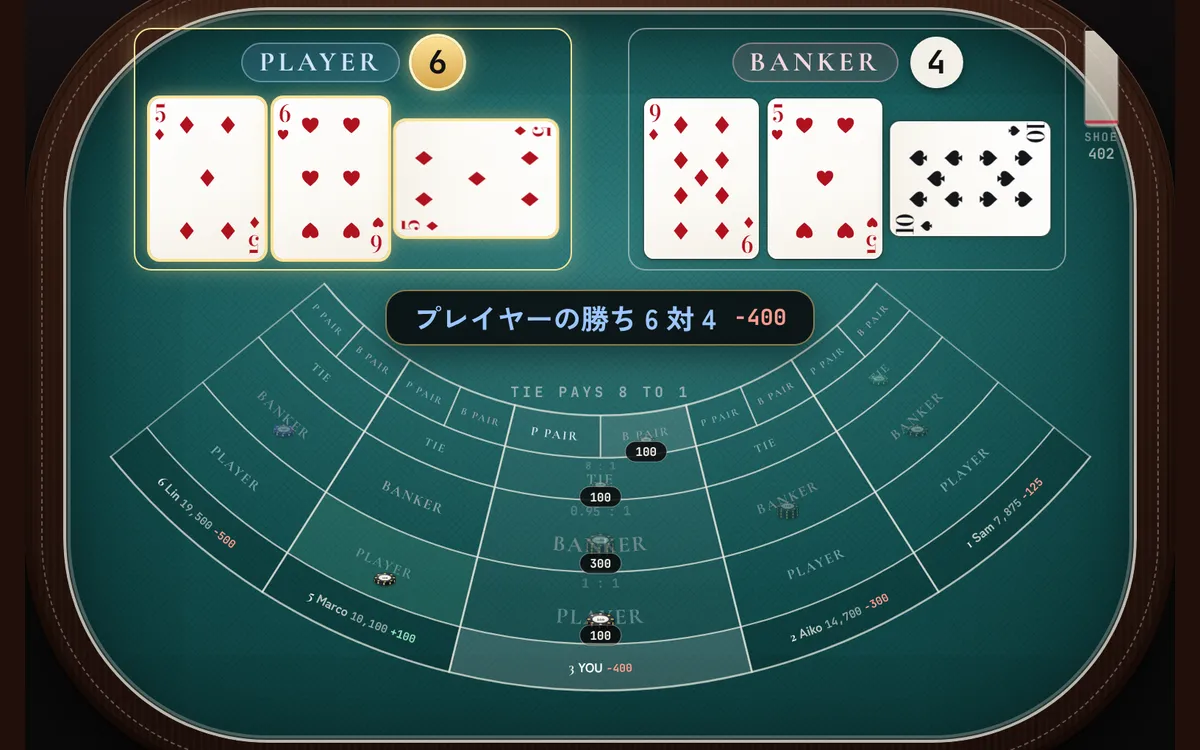
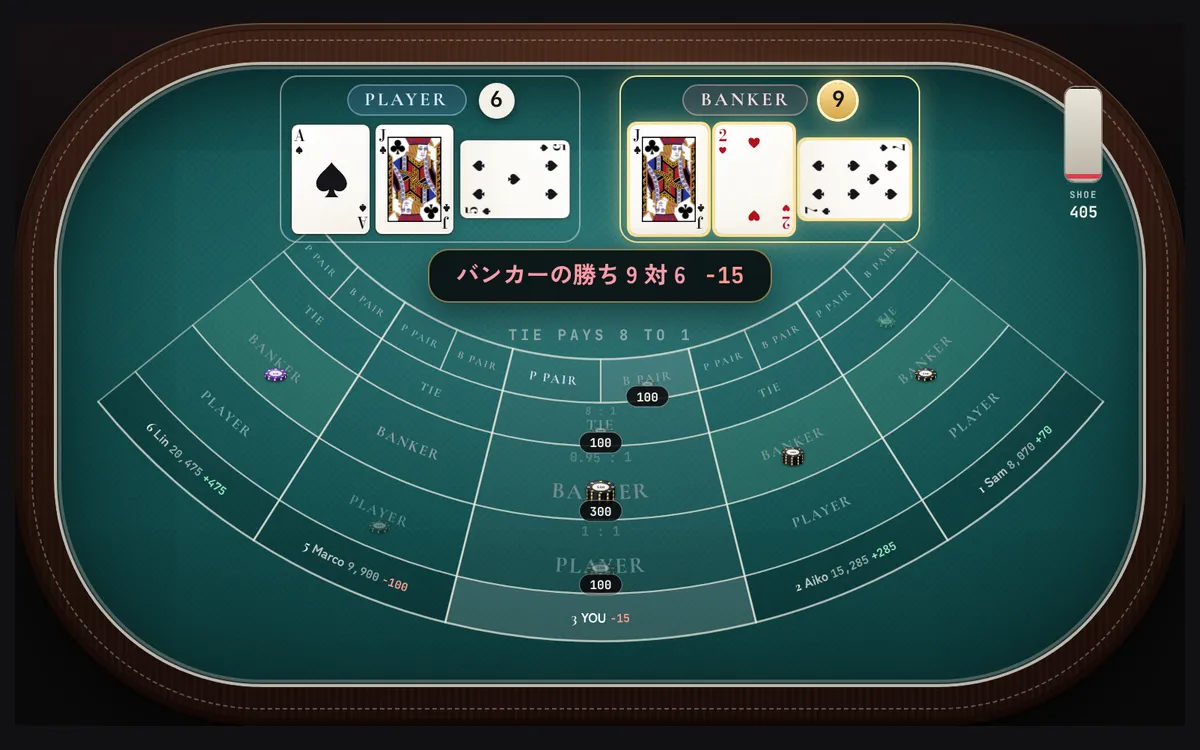
バカラ（スマホ）：親指向けのバカラテーブル（全幅の共有バンド・縁に5席・全員のチップを各席位置に）、トップのサムネイルを盤全体に
Claude-Session: https://claude.ai/code/session_01EiWRAXYbB7FpiyimYy4m7z

diff --git a/baccarat/app.js b/baccarat/app.js
@@ -369,6 +369,63 @@ function visTotal(side) {
   if (S.sq === side && cs.some(i => !S.peel[side + i])) return null;
   return B.total(cs.map(i => c[side][i]));
 }
+/* phones: still a baccarat table, but drawn for the thumb — the shared bands PLAYER / BANKER / TIE run across the whole width
+   (one big target each), the five seats sit on the rim (6 5 YOU 2 1), and every player's chips lie on the bands at their seat.
+   The pairs (and the EZ side bets) are round spots in the corners. */
+const MG = { cx: 500, cy: -250, span: 40, R: { plate: [700, 786], P: [565, 700], B: [430, 565], T: [345, 430], S: [265, 345] } };
+function mobGeo() {
+  const ez = VB().includes('D7'), rIn = ez ? MG.R.S[0] : MG.R.T[0];
+  const top = Math.floor(MG.cy + rIn * Math.cos(MG.span * Math.PI / 180) - 14), bot = Math.ceil(MG.cy + MG.R.plate[1] + 8);
+  return { ez, rIn, top: Math.min(top, -10), h: bot - Math.min(top, -10) };
+}
+function layMobHtml() {
+  const vb = VB(), done = T.phase === 'done', G0 = mobGeo(), { cx, cy, span, R } = MG;
+  const P2 = (r, a) => [cx + r * Math.sin(a * Math.PI / 180), cy + r * Math.cos(a * Math.PI / 180)].map(v => +v.toFixed(1));
+  const cell = (r1, r2, a0, a1) => { const [x1, y1] = P2(r2, a0), [x2, y2] = P2(r2, a1), [x3, y3] = P2(r1, a1), [x4, y4] = P2(r1, a0); return `M${x1} ${y1}A${r2} ${r2} 0 0 0 ${x2} ${y2}L${x3} ${y3}A${r1} ${r1} 0 0 1 ${x4} ${y4}Z`; };
+  const arc = (r, a0, a1) => { const [x1, y1] = P2(r, a0), [x2, y2] = P2(r, a1); return `M${x1} ${y1}A${r} ${r} 0 0 0 ${x2} ${y2}`; };
+  // seats on the rim (angles grow to the right): 6 5 | 3 YOU | 2 1
+  const W8 = [1, 1, 1.7, 1, 1], tot = W8.reduce((x, y) => x + y, 0); let acc = -span;
+  const seats = [6, 5, 3, 2, 1].map((n, i) => { const a0 = acc; acc += W8[i] / tot * 2 * span; return { n, a0, a1: acc, am: (a0 + acc) / 2 }; });
+  const meBets = T.phase === 'bet' ? T.bets : T.last || {}, meRes = done && T.result ? T.result.per : null;
+  const who = n => n === ME ? null : BOTS.find(b => b.seat === n);
+  const betsOf = n => n === ME ? meBets : ((T.bots && T.bots[who(n).id] && T.bots[who(n).id].bets) || {});
+  let g = '';
+  // the bands
+  const bands = [['P', R.P], ['B', R.B], ['T', R.T]].concat(G0.ez ? [['P8', [R.S[0], R.S[1]], 0], ['D7', [R.S[0], R.S[1]], 1]] : []);
+  bands.forEach(([k, [r1, r2], half]) => {
+    const a0 = half === undefined ? -span : half ? 0 : -span, a1 = half === undefined ? span : half ? span : 0, rm = (r1 + r2) / 2, h = r2 - r1;
+    const rr = meRes ? meRes[k] : undefined, st = rr === undefined ? '' : rr > 0 ? ' won' : rr < 0 ? ' lost' : ' push';
+    const id = 'mz' + k, am = (a0 + a1) / 2, lab = LAB[k], fs = k === 'T' || half !== undefined ? 44 : 70;
+    g += `<g class="lz mz lz-${k}${st}${meBets[k] ? ' has' : ''}" data-spot="${k}" data-k="${id}"><path class="lz-a" d="${cell(r1, r2, a0, a1)}"/>` +
+      `<path id="${id}" d="${arc(rm + h * .2, a0, a1)}" fill="none"/><text class="lz-n" style="font-size:${fs}px"><textPath href="#${id}" startOffset="50%">${lab}  <tspan class="mz-p">${esc(payTxt(k).replace(/ \(.*$/, '').replace(/（.*$/, ''))}</tspan></textPath></text>`;
+    // everybody's chips on this band, at their seat
+    seats.forEach(sx => { const amt = betsOf(sx.n)[k]; if (!amt) return; const a = half === undefined ? sx.am : am + (sx.am / span) * (a1 - a0) / 2 * .8, [x, y] = P2(rm, a), me = sx.n === ME;
+      const [xu, yu] = P2(r1 + h * .18, a); g += `<g class="lz-ch">${chipsAt(amt, xu, yu + 6, me ? 46 : 34)}</g>` + (me ? badge(xu + 62, yu - 8, fmt(amt), 'amt mz-b') : ''); });
+    if (rr !== undefined && meBets[k]) { const [x, y] = P2(rm, half === undefined ? span * .55 : am + (a1 - a0) * .3); g += badge(x, y, rr > 0 ? '+' + fmt(rr) : rr === 0 ? t('res.push') : '−' + fmt(-rr), 'res mz-b'); }
+    g += `</g>`;
+  });
+  // the pairs: round spots in the upper corners
+  [['PP', 92, 0], ['BP', 908, 1]].filter(([k]) => vb.includes(k)).forEach(([k, x]) => {
+    const y = G0.top + 92, rr = meRes ? meRes[k] : undefined, st = rr === undefined ? '' : rr > 0 ? ' won' : rr < 0 ? ' lost' : ' push';
+    const ws = seats.filter(sx => betsOf(sx.n)[k]);
+    g += `<g class="lz mz lz-s lz-${k}${st}${meBets[k] ? ' has' : ''}" data-spot="${k}" data-k="mz${k}"><circle class="lz-a" cx="${x}" cy="${y}" r="78"/><circle class="lz-ring" cx="${x}" cy="${y}" r="68"/>` +
+      `<text class="lz-sn mz-sn" x="${x}" y="${y - 4}">${LAB[k]}</text><text class="lz-sp mz-sp" x="${x}" y="${y + 30}">11 : 1</text>` +
+      ws.map((sx, i) => sx.n === ME ? `<g class="lz-ch">${chipsAt(betsOf(ME)[k], x, y + 72, 44)}</g>` + badge(x, y + 84, fmt(betsOf(ME)[k]), 'amt mz-b') : `<g class="mz-av"><circle cx="${x + (k === 'PP' ? 1 : -1) * (40 + i * 30)}" cy="${y - 64}" r="17"/><text x="${x + (k === 'PP' ? 1 : -1) * (40 + i * 30)}" y="${y - 57}">${who(sx.n).name[0]}</text></g>`).join('') +
+      (rr !== undefined && meBets[k] ? badge(x, y - 92, rr > 0 ? '+' + fmt(rr) : '−' + fmt(-rr), 'res mz-b') : '') + `</g>`;
+  });
+  // the seats (name plates on the rim)
+  let lines = '';
+  seats.forEach((sx, i) => {
+    const me = sx.n === ME, b = who(sx.n), tb = b && T.bots ? T.bots[b.id] : null, [p1, p2] = R.plate, pid = 'mp' + sx.n;
+    const net = me ? (done && T.result && betSum(T.last) ? T.result.net : null) : done && tb && tb.res ? tb.res.net : null;
+    g += `<g class="seat-g${me ? ' me' : ''}"><path class="pl-a" d="${cell(p1, p2, sx.a0, sx.a1)}"/><path id="${pid}" d="${arc((p1 + p2) / 2 + 12, sx.a0, sx.a1)}" fill="none"/>` +
+      `<text class="pl-t mz-pl"><textPath href="#${pid}" startOffset="50%">${me ? `<tspan class="pl-n">3</tspan> YOU` : `<tspan class="pl-n">${sx.n}</tspan> ${esc(b.name)}`}${net ? ` <tspan class="${net > 0 ? 'pl-w' : 'pl-l'}">${net > 0 ? '+' : '−'}${fmt(Math.abs(net))}</tspan>` : me ? '' : ` <tspan class="pl-b">${fmt(botState(b).bank)}</tspan>`}</textPath></text></g>`;
+    if (i) { const [x1, y1] = P2(G0.rIn, sx.a0), [x2, y2] = P2(p2, sx.a0); lines += `<line class="lz-div mz-div" x1="${x1}" y1="${y1}" x2="${x2}" y2="${y2}"/>`; }
+  });
+  const rim = `<path class="lz-rim" d="${arc(R.plate[1], -span, span)}"/><path class="lz-rim" d="${arc(G0.rIn, -span, span)}"/>`;
+  return `<div class="bc-lay" data-k="laym"><svg class="lz-svg mzs" viewBox="0 ${G0.top} 1000 ${G0.h}" preserveAspectRatio="xMidYMax meet">${g}${lines}${rim}</svg></div>`;
+}
+
 /* the layout: a baccarat-table print — five seats (1 2 3 5 6, no 4) along the curve, divided by lines.
    Each seat, from the rim inwards: name plate, PLAYER, BANKER, TIE, then the side bets. You sit in the middle (seat 3). */
 let LW = 1000, SPAN = 40, MEW = 1.6;
@@ -391,7 +448,7 @@ function chipsAt(amt, x, yb, w) {   // chip stacks (side view) standing on y = y
     return sv.replace('<svg class="chsv"', `<svg class="chsv" x="${(x0 + i * gap - w / 2).toFixed(1)}" y="${(yb - h).toFixed(1)}" width="${w}" height="${h.toFixed(1)}"`); }).join('');
 }
 const resTxt = res => res > 0 ? '+' + fmt(res) : res === 0 ? t('res.push') : '−' + fmt(-res);
-function badge(x, y, txt, cls) { const w = 16 + String(txt).length * 11; return `<g class="lz-badge ${cls}"><rect x="${(x - w / 2).toFixed(1)}" y="${(y - 13).toFixed(1)}" width="${w}" height="24" rx="12"/><text x="${x}" y="${(y + 4.5).toFixed(1)}">${esc(txt)}</text></g>`; }
+function badge(x, y, txt, cls) { const big = /mz-b/.test(cls), w = (big ? 24 : 16) + String(txt).length * (big ? 19 : 11); return `<g class="lz-badge ${cls}"><rect x="${(x - w / 2).toFixed(1)}" y="${(y - (big ? 21 : 13)).toFixed(1)}" width="${w}" height="${big ? 40 : 24}" rx="${big ? 20 : 12}"/><text x="${x}" y="${(y + (big ? 9 : 4.5)).toFixed(1)}">${esc(txt)}</text></g>`; }
 function layHtml() {
   const vb = VB(), done = T.phase === 'done', narrow = !!G.deep;
   LW = narrow ? 1000 : 1180; SPAN = narrow ? 66 : 51; MEW = narrow ? 2 : 1.5; RING = narrow ? RING_N : RING_W; LCY = narrow ? -10 : -360; LH = narrow ? 540 : 420;
@@ -440,13 +497,14 @@ function render() {
   // the height the table could have: on phones / tablets the chips and the Deal button must stay on the screen without scrolling
   const Hn = pcCol ? H : Math.min(innerWidth * 1.35, 640, Math.max(260, (sc ? sc.clientHeight : innerHeight) - ($('#actbar').offsetHeight > 100 ? $('#actbar').offsetHeight : 140) - 22)) - 2 * rail;
   G.deep = narrow || (pcCol && H > W * .7);
-  const lzh = (W - 24) * (G.deep ? 540 / 1000 : 420 / 1180), lz = Math.min(lzh, Hn * .6);
+  G.mob = narrow;   // phones: a touch layout (the other players in a strip, big betting boxes) instead of the printed arcs
+  const lzh = G.mob ? (W - 8) * mobGeo().h / 1000 : (W - 24) * (G.deep ? 540 / 1000 : 420 / 1180), lz = G.mob ? lzh : Math.min(lzh, Hn * .6);
   // the two hands side by side, or (tall tables) one above the other with bigger cards
-  const cwS = Math.min(W / (narrow ? 8.1 : 8.6), (Hn - lz) / 3.2), cwT = Math.min(W / (narrow ? 6.6 : 5.7), (Hn - lz) / 4.8);
+  const cwS = Math.min(W / (narrow ? 8.1 : 8.6), (Hn - lz) / (G.mob ? 3.4 : 3.2)), cwT = Math.min(W / (narrow ? 6.6 : 5.7), (Hn - lz) / 4.8);
   const stack = cwT > cwS * 1.12, cw = Math.max(34, Math.min(stack ? cwT : cwS, 124));
   bw.style.setProperty('--cw', cw + 'px'); bw.style.setProperty('--chh', cw * 1.4 + 'px');
-  box.classList.toggle('ctr', pcCol); box.classList.toggle('stk', stack); box.style.setProperty('--lzh', lz + 'px');
-  if (!pcCol) { const need = Math.ceil(cw * ((stack ? 3.4 + .4 : 2.12) + .38 + .62) + lz + 2 * rail + 8);
+  box.classList.toggle('ctr', pcCol); box.classList.toggle('mob', !!G.mob); box.classList.toggle('stk', stack); box.style.setProperty('--lzh', lz + 'px');
+  if (!pcCol) { const need = Math.ceil(cw * ((stack ? 3.4 + .4 : 2.12) + .38 + .62) + lz + 2 * rail + 8 + (G.mob ? 16 : 0));
     const mh = parseFloat(bw.style.maxHeight) || 0; if (Math.abs(mh - need) > 2) bw.style.maxHeight = need + 'px'; }
   const c = T.coup, done = T.phase === 'done', win = done ? c.win : null;
   const pt = visTotal('p'), bt = visTotal('b');
@@ -458,7 +516,7 @@ function render() {
     const head = win === 'T' ? t('win.T', { n: c.pt }) : t('win.' + win, { a: win === 'P' ? c.pt : c.bt, b: win === 'P' ? c.bt : c.pt });
     banner = `<div class="bc-banner w${win}" data-k="banner${T.hand}"><b>${esc(head)}</b>${c.natural ? `<small>${esc(t('natural'))}</small>` : ''}${hadBet ? `<span class="${r.net > 0 ? 'pos' : r.net < 0 ? 'neg' : ''}">${esc(r.net > 0 ? t('res.win', { n: fmt(r.net) }) : r.net < 0 ? t('res.lose', { n: fmt(-r.net) }) : t('res.even'))}</span>` : ''}</div>`;
   }
-  const lay = layHtml();
+  const lay = G.mob ? layMobHtml() : layHtml();
   const shoeLeft = T.shoe.cards.length - T.shoe.pos, shoePct = shoeLeft / T.shoe.cards.length;
   const h = `<div class="bc-hands" data-k="hands">` +
     `<div class="bc-hand bh-p${win === 'P' ? ' win' : ''}" data-k="hp"><div class="bc-hh"><span>PLAYER</span>${tag('p', pt)}${pair('p')}</div>${handHtml('p')}</div>` +

diff --git a/baccarat/app.css b/baccarat/app.css
@@ -2035,3 +2035,61 @@ body.pk.bc{background:radial-gradient(1100px 700px at 25% -10%,#26191d 0%,transp
 .lg-row div{display:flex;flex-direction:column;padding:6px 2px;border-radius:8px;background:rgba(0,0,0,.2)}
 .lg-row small{font-size:10.5px;color:var(--muted)}.lg-row b{font:700 16px 'JetBrains Mono',monospace}
 .ck-luck{margin:8px 0 0;font-size:12.5px;line-height:1.6;color:var(--text)}
+/* ===== phones: the touch layout ===== */
+.bc-lay.bm{flex-direction:column;align-items:stretch;justify-content:flex-end;gap:6px;--bl:var(--bc-line,rgba(236,232,222,.5))}
+.bm-strip{display:grid;grid-template-columns:repeat(4,minmax(0,1fr));gap:4px}
+.bm-bot{display:flex;align-items:center;gap:4px;min-width:0;padding:3px 4px;border-radius:9px;background:rgba(0,0,0,.22);border:1px solid rgba(236,232,222,.14);position:relative;flex-wrap:wrap}
+.bm-bot .ava{width:20px;height:20px;font-size:11px;flex:none}
+.bm-t{display:flex;flex-direction:column;min-width:0;line-height:1.1}
+.bm-t b{font-size:10.5px;color:#f3efe6;white-space:nowrap;overflow:hidden;text-overflow:ellipsis}
+.bm-t small{font:600 9.5px 'JetBrains Mono',monospace;color:rgba(240,236,226,.6)}
+.bm-bot em{flex-basis:100%;font:700 10px 'JetBrains Mono',monospace;font-style:normal;text-align:center;border-radius:5px;padding:0 3px;white-space:nowrap}
+.bm-bot em.bm-on{background:rgba(255,255,255,.08);color:#f3efe6}.bm-bot em.kP,.bm-bot em.kPP,.bm-bot em.kP8{color:#cfdcef}.bm-bot em.kB,.bm-bot em.kBP,.bm-bot em.kD7{color:#efd3d7}.bm-bot em.kT{color:#d3e9da}
+.bm-row{display:grid;grid-auto-flow:column;grid-auto-columns:minmax(0,1fr);gap:6px}
+.bm-box{position:relative;display:flex;flex-direction:column;align-items:center;justify-content:center;gap:1px;height:44px;padding:0 4px;border-radius:10px;border:1.5px solid var(--bl);background:rgba(0,0,0,.1);color:#f0ece2;cursor:pointer;-webkit-tap-highlight-color:transparent;transition:background .15s,transform .1s}
+.bm-box:active{transform:scale(.97)}
+.bm-box b{font:700 12.5px 'Cormorant Garamond',serif;letter-spacing:.08em;white-space:nowrap}
+.bm-box small{font:600 9.5px 'JetBrains Mono',monospace;opacity:.7}
+.bm-box.big{height:84px;border-radius:16px}
+.bm-box.big b{font-size:22px;letter-spacing:.14em}
+.bm-box.big small{font-size:11px}
+.bm-P b,.bm-PP b,.bm-P8 b{color:#cfdcef}.bm-B b,.bm-BP b,.bm-D7 b{color:#efd3d7}.bm-T b{color:#d3e9da}
+.bm-box.has{background:rgba(255,255,255,.08)}
+.bm-box.won{background:rgba(143,227,184,.18);border-color:#8fe3b8}
+.bm-box.lost{opacity:.6}
+.bm-box.flash{animation:hintGlow 1s ease-in-out 2}
+.bm-who{position:absolute;left:5px;top:4px;display:flex}
+.bm-who .ava{width:15px;height:15px;font-size:8.5px;box-shadow:0 0 0 1.5px rgba(0,0,0,.4)}
+.bm-who .ava + .ava{margin-left:-4px}
+.bm-st{position:absolute;right:5px;bottom:3px;display:flex;flex-direction:column;align-items:center;pointer-events:none}
+.bm-st .chsv{width:22px;height:auto;filter:drop-shadow(0 2px 2px rgba(0,0,0,.5))}
+.bm-st .chs{display:flex}.bm-st .chs .chsv + .chsv{display:none}
+.bm-box.big .bm-st .chsv{width:30px}.bm-box.big .bm-st .chs .chsv + .chsv{display:block}
+.bm-st em{font:700 10px 'JetBrains Mono',monospace;font-style:normal;background:rgba(0,0,0,.6);border-radius:99px;padding:0 5px;margin-top:-2px;color:#fff}
+.bm-res{position:absolute;left:50%;top:-8px;transform:translateX(-50%);font:700 10.5px 'JetBrains Mono',monospace;padding:0 7px;border-radius:99px;background:#121212;color:var(--muted);border:1px solid var(--line);white-space:nowrap}
+.won .bm-res{background:#8fe3b8;color:#0b2a1a;border-color:transparent}.lost .bm-res{color:#ff9b90}
+.bm-you{display:flex;justify-content:center;gap:8px;align-items:baseline;font:700 11px 'Zen Kaku Gothic New',sans-serif;color:#f3efe6;letter-spacing:.06em}
+.bm-you em{font:700 11px 'JetBrains Mono',monospace;font-style:normal}
+.bc-table.mob .bc-mid{height:max(36px,calc(var(--cw)*.62))}
+.bc-table.mob .bc-banner{padding:4px 12px}
+/* phones: the table print drawn for the thumb */
+.mzs .lz-n{letter-spacing:4px}
+.mzs .mz-p{font:600 26px 'JetBrains Mono',monospace;fill:rgba(240,236,226,.6);letter-spacing:0}
+.mzs .lz-T .mz-p{font-size:22px}
+.mzs .lz .lz-a,.mzs .pl-a{stroke-width:3}
+.mzs .lz-rim,.mzs .mz-div{stroke-width:4}
+.mzs .mz-pl{font-size:30px}.mzs .mz-pl .pl-n{font-size:34px}.mzs .mz-pl .pl-b,.mzs .mz-pl .pl-w,.mzs .mz-pl .pl-l{font-size:26px}
+.mzs .mz-sn{font-size:24px}.mzs .mz-sp{font-size:22px}
+.mzs .mz-b text{font-size:26px}
+.mz-av circle{fill:#4a4a52;stroke:rgba(0,0,0,.45);stroke-width:2}.mz-av text{font:700 20px 'Zen Kaku Gothic New',sans-serif;fill:#fff;text-anchor:middle}
+.lz-s .lz-a{fill:rgba(0,0,0,.14)}
+.lz-ring{fill:none;stroke:var(--bc-line,rgba(236,232,222,.5));stroke-width:1;opacity:.6}
+.lz-sn{font:700 15px 'Cormorant Garamond',serif;letter-spacing:1px;text-anchor:middle;fill:rgba(240,236,226,.88)}
+.lz-sp{font:600 13px 'JetBrains Mono',monospace;text-anchor:middle;fill:rgba(240,236,226,.6)}
+.lz-PP .lz-sn{fill:#cfdcef}.lz-BP .lz-sn{fill:#efd3d7}
+.mzs .mz-p{font-size:34px}.mzs .lz-T .mz-p,.mzs .lz-P8 .mz-p,.mzs .lz-D7 .mz-p{font-size:26px}
+.mzs .mz-pl{font-size:38px}.mzs .mz-pl .pl-n{font-size:42px}.mzs .mz-pl .pl-b,.mzs .mz-pl .pl-w,.mzs .mz-pl .pl-l{font-size:32px}
+.mzs .mz-sn{font-size:34px}.mzs .mz-sp{font-size:28px}
+.mzs .mz-b text{font-size:30px}
+.mzs .mz-pl{font-size:30px}.mzs .mz-pl .pl-n{font-size:34px}.mzs .mz-pl .pl-b,.mzs .mz-pl .pl-w,.mzs .mz-pl .pl-l{font-size:26px}
+.mzs .seat-g.me .mz-pl{font-size:36px}

diff --git a/index.html b/index.html
@@ -803,7 +803,7 @@ const GAMES = [
   { id:'jailbreak',  href:'./jailbreak/',     thumb:'images/jailbreak.webp', icon:'images/icons/jailbreak.svg', cat:'puzzle', kind:'PUZZLE', key:'jb', isNew:true, tags:['original','daily','puzzles','variants','netrank','mobile'], facts:{ puzzles:2050, players:'1' } },
   { id:'poker',      href:'./poker/',         thumb:'images/poker.webp?v=6', icon:'images/icons/poker.svg', cat:'puzzle', kind:'CARD GAME', key:'pk', isNew:true, tags:['classic','card','ai','lessons','variants','mobile'], facts:{ ai:4, lessons:18, players:'1' } },
   { id:'solitaire',  href:'./solitaire/',     thumb:'images/solitaire.webp', icon:'images/icons/solitaire.svg', cat:'puzzle', kind:'CARD GAME', key:'sol', isNew:true, tags:['classic','card','daily','variants','mobile'], facts:{ modes:6, players:'1' } },
-  { id:'baccarat',   href:'./baccarat/',      thumb:'images/baccarat.webp?v=4', icon:'images/icons/baccarat.svg?v=2', cat:'puzzle', kind:'CARD GAME', key:'bc', isNew:true, tags:['classic','card','lessons','variants','mobile'], facts:{ lessons:17, players:'1' } },
+  { id:'baccarat',   href:'./baccarat/',      thumb:'images/baccarat.webp?v=5', icon:'images/icons/baccarat.svg?v=2', cat:'puzzle', kind:'CARD GAME', key:'bc', isNew:true, tags:['classic','card','lessons','variants','mobile'], facts:{ lessons:17, players:'1' } },
   { id:'reversi',    href:'./reversi/',       thumb:'images/reversi_v4.webp',  icon:'images/icons/reversi.svg',     cat:'line',      kind:'BOARD GAME', key:'rv4',  name:'Reversi V4', tags:['classic','ai','online','rated','daily','lessons','puzzles','openings','mobile'], facts:{ ai:20, lessons:9, puzzles:1000, players:'1–2' } },
   { id:'go',         href:'./go/',            thumb:'images/go.webp',          icon:'images/icons/go.svg',          cat:'line',      kind:'BOARD GAME', key:'igo',  isNew:true,  tags:['classic','ai','online','rated','daily','lessons','puzzles','openings','variants','mobile'], facts:{ ai:27, lessons:21, puzzles:500, players:'1–2' } },
   { id:'gomoku',     href:'./gomoku/',        thumb:'images/gomoku.webp',      icon:'images/icons/gomoku.svg',      cat:'line',      kind:'BOARD GAME', key:'gm',   isNew:true,  tags:['classic','ai','online','rated','daily','lessons','puzzles','openings','variants','mobile'], facts:{ ai:20, lessons:12, puzzles:500, players:'1–2' } },

diff --git a/baccarat/index.html b/baccarat/index.html
@@ -11,7 +11,7 @@
 <link rel="preconnect" href="https://fonts.googleapis.com">
 <link rel="preconnect" href="https://fonts.gstatic.com" crossorigin>
 <link href="https://fonts.googleapis.com/css2?family=Cormorant+Garamond:ital,wght@0,600;0,700;1,600&family=Shippori+Mincho+B1:wght@600;800&family=Zen+Kaku+Gothic+New:wght@400;500;700&family=JetBrains+Mono:wght@500;700&family=Bodoni+Moda:opsz,wght@6..96,500;6..96,600;6..96,700&family=Noto+Sans+Devanagari:wght@400;500;700&family=Noto+Sans+Arabic:wght@400;500;700&display=swap" rel="stylesheet">
-<link rel="stylesheet" href="app.css?v=15">
+<link rel="stylesheet" href="app.css?v=20">
 </head>
 <body class="pk bc">
 <svg width="0" height="0" style="position:absolute" aria-hidden="true">
@@ -133,7 +133,7 @@
 <script src="../shared/ruletour.js?v=28"></script>
 <script src="../shared/resign.js?v=1"></script>
 <script src="../shared/record.js?v=8"></script>
-<script src="app.js?v=13"></script>
+<script src="app.js?v=19"></script>
 <script src="tools.js?v=4"></script>
 <script src="lessons.js?v=2"></script>
 <script src="rules.js?v=2"></script>
